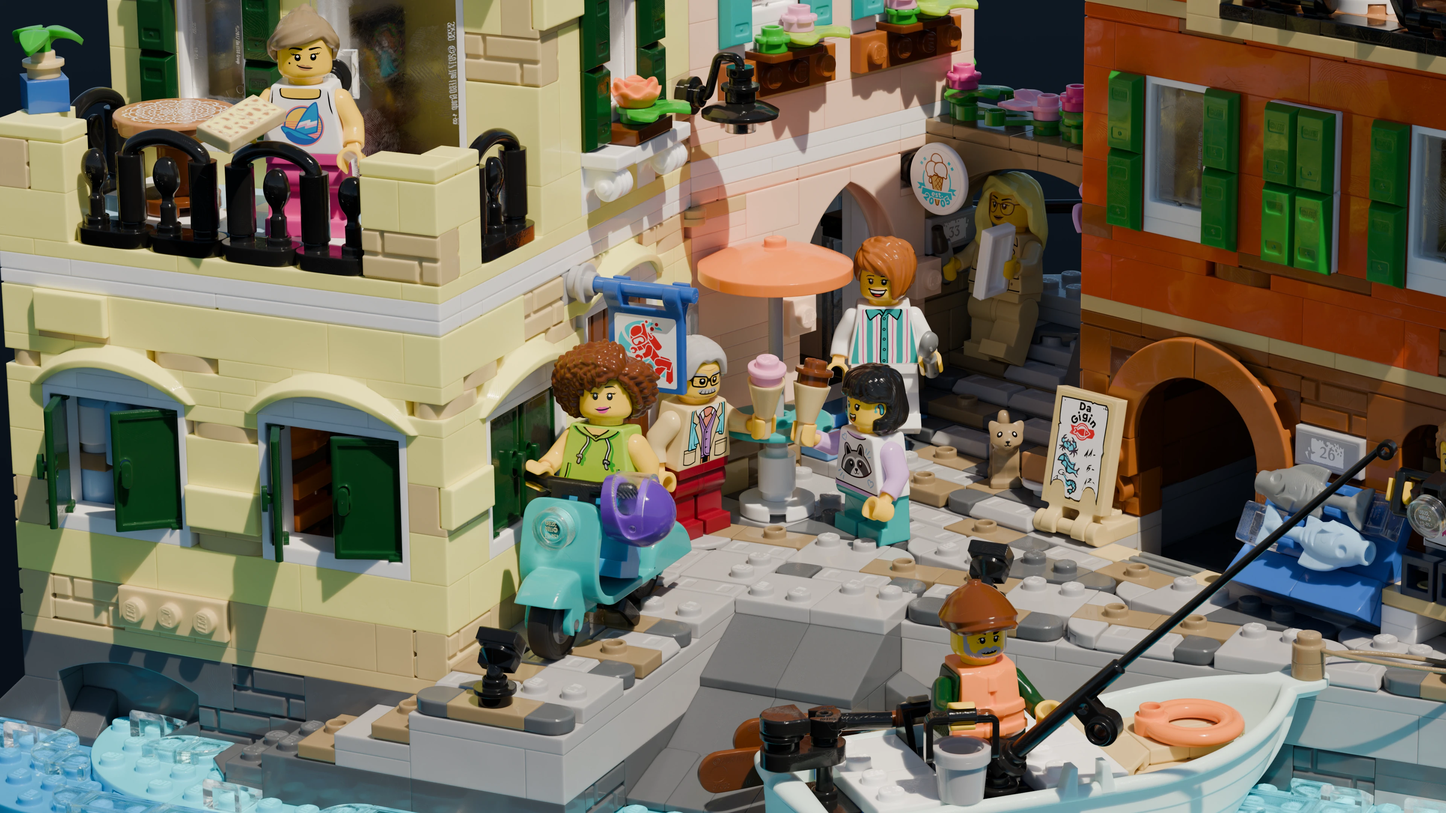
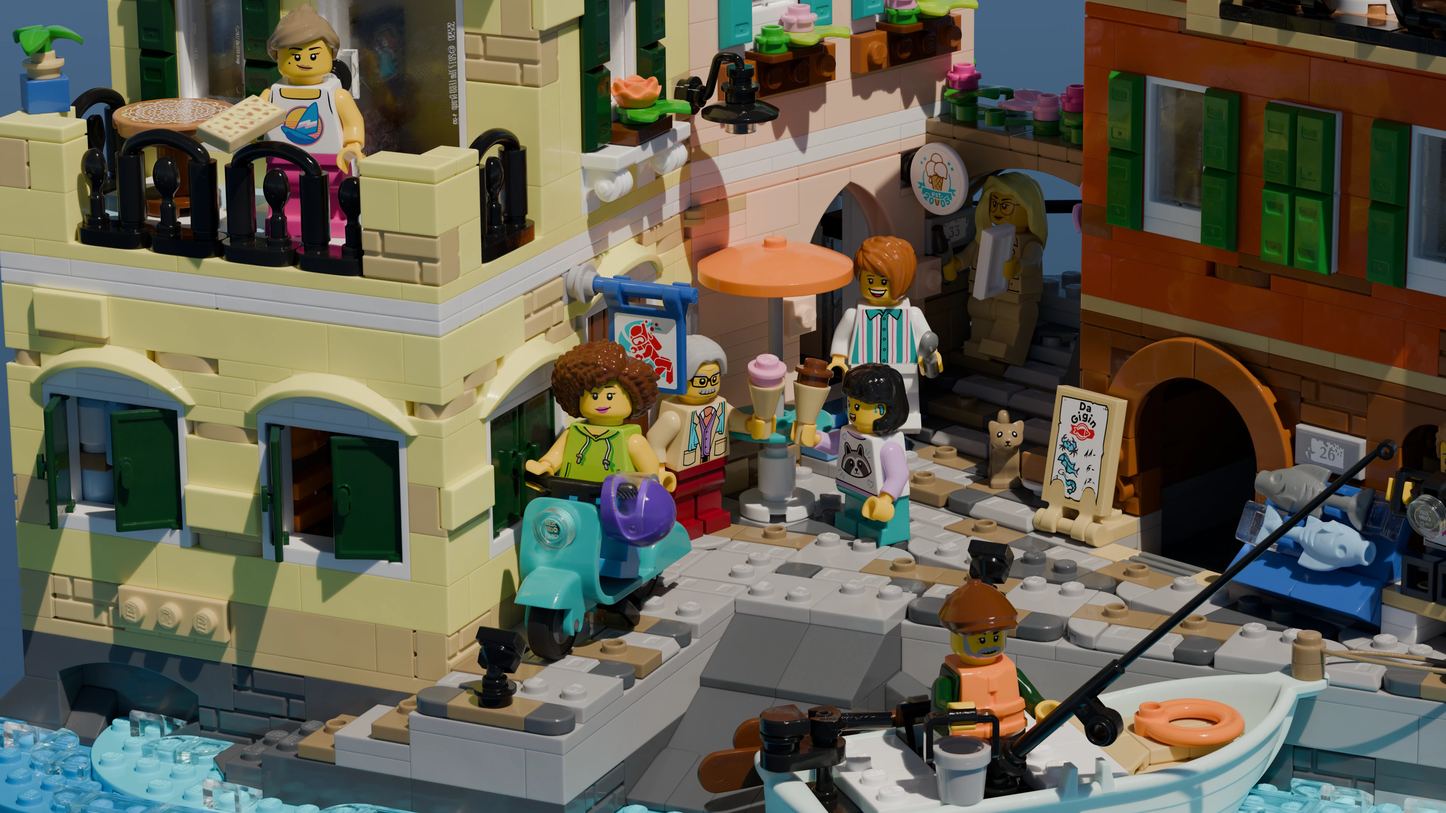
Tutorial renders with the standard sky of 1.1.0 (strength 0.03): Front, All views, 8K details; 8K render on the 1.1.0 release
Claude-Session: https://claude.ai/code/session_01VSXh4cVLfm4J2gU6DRZHzJ

diff --git a/docs/TUTORIAL.md b/docs/TUTORIAL.md
@@ -224,8 +224,8 @@ settings of its own, without touching yours.
 > **Tip – a Blender feature for every slider:** hold **Shift** while dragging for fine control,
 > **Ctrl** for coarse steps. A double-click lets you type an exact value.
 
-**Check:** the Front view at *Low* (1920 × 1080, 105 seconds on an RTX 5090 including the switch to
-level 2). *All views* at 50 % gives the six slots below in about two minutes.
+**Check:** the Front view at *Low* (1920 × 1080, 133 seconds on an RTX 5090 including the switch to
+level 2). *All views* at 50 % gives the six slots below in about two and a half minutes.
 
 ![All views: the six slots of the Render window](images/tutorial/T08b_all_views.webp)
 
@@ -233,9 +233,9 @@ level 2). *All views* at 50 % gives the six slots below in about two minutes.
 
 The same view at 8K (7680 × 4320) with 512 samples – about five minutes on an RTX 5090 – and four
 parts of it at full size. Click a detail for a 4K section around it; the overview downloads the
-whole 8K render (1.8 MB):
+whole 8K render (1.7 MB):
 
-[![The 8K render with the four details (1–4)](images/tutorial/T08c_overview.webp)](https://github.com/Renderbricks/Renderbricker/releases/download/v1.0.0/Italian_Riviera_8K_512_samples.webp)
+[![The 8K render with the four details (1–4)](images/tutorial/T08c_overview.webp)](https://github.com/Renderbricks/Renderbricker/releases/download/v1.1.0/Italian_Riviera_8K_512_samples.webp)
 
 [![Detail 1: the roof tiles](images/tutorial/T08c_crop1.webp)](https://raw.githubusercontent.com/Renderbricks/Renderbricker/main/docs/images/tutorial/T08c_crop1_4k.webp)
 
